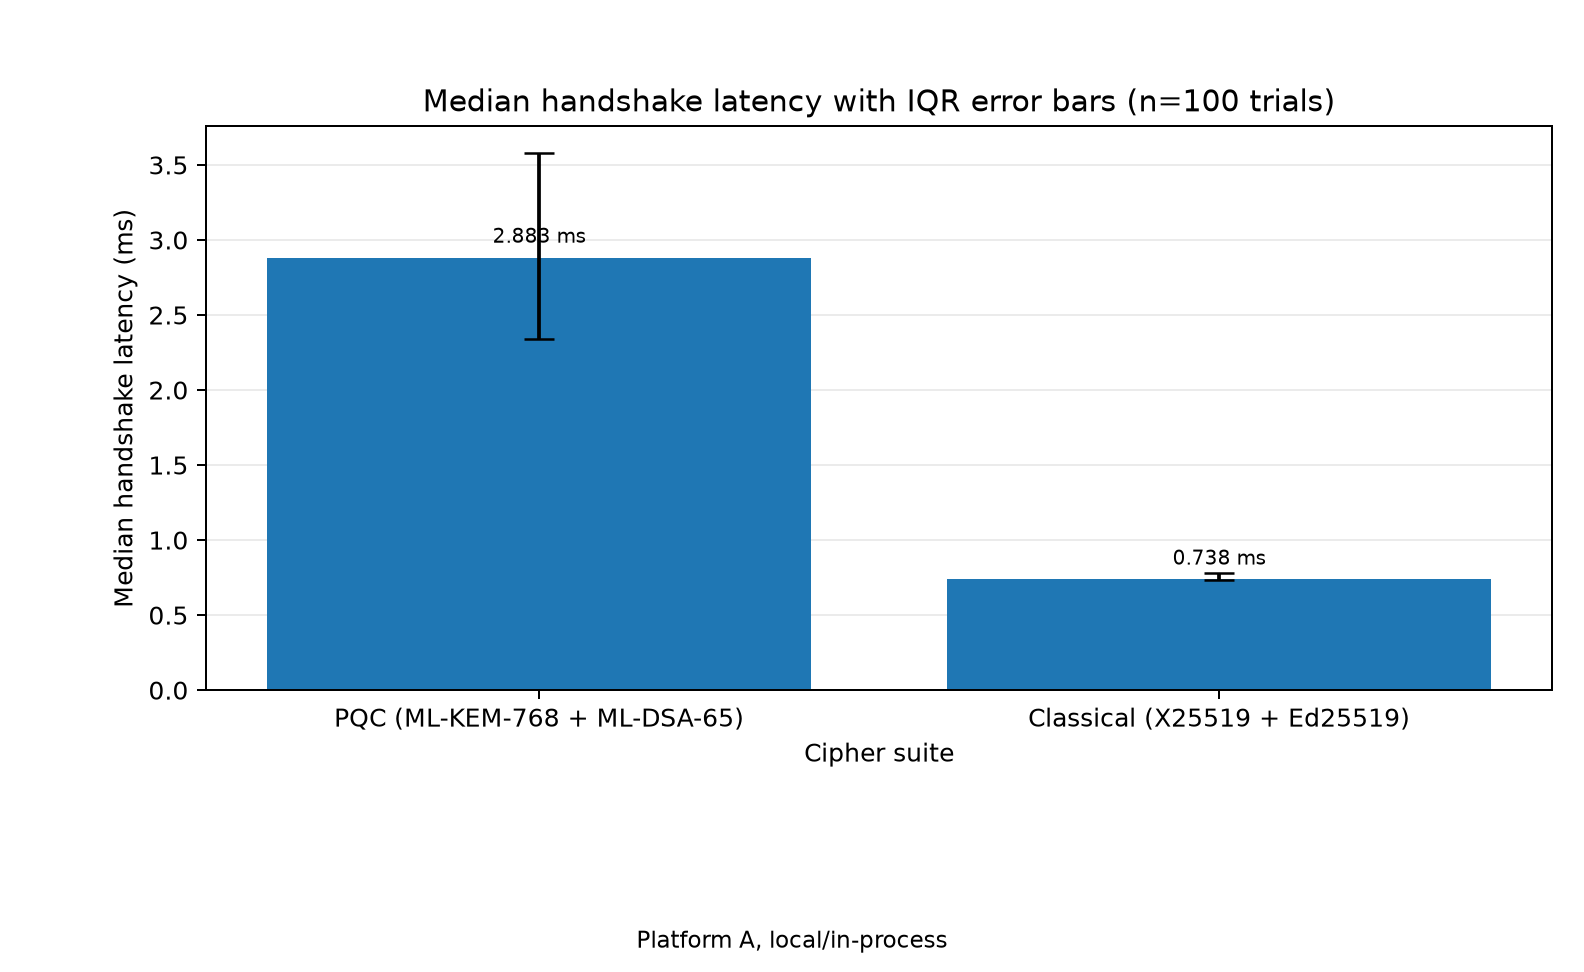
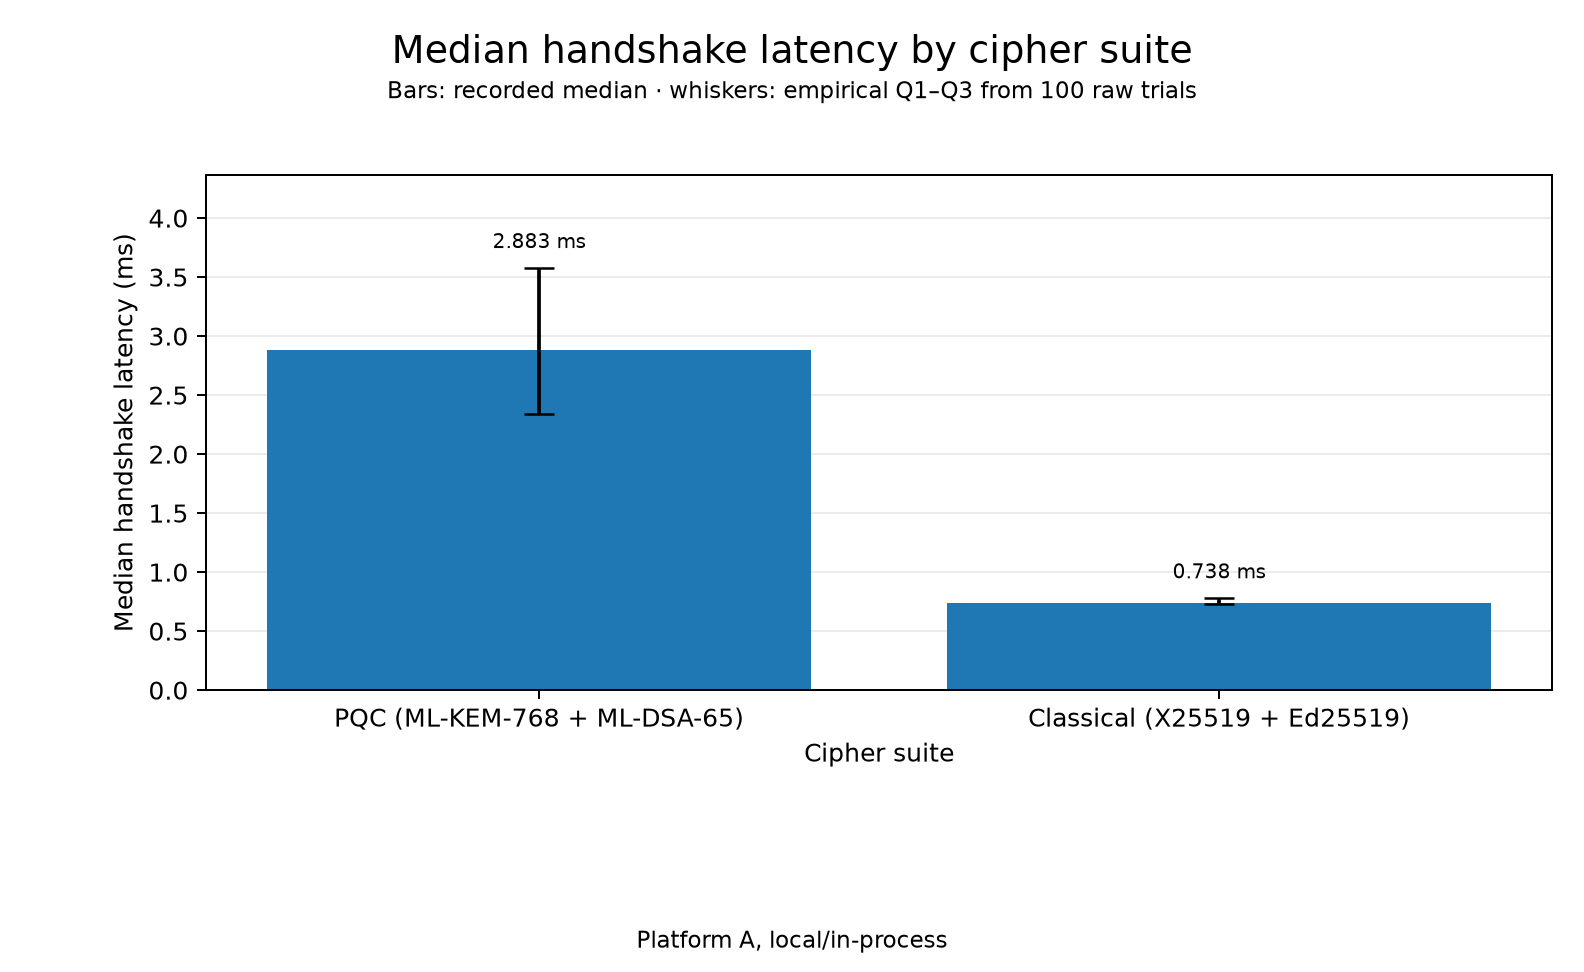
Polish PS-P1 submission documentation and figures

diff --git a/scripts/make_figures.py b/scripts/make_figures.py
@@ -38,17 +38,20 @@ def label_for(mode: str) -> str:
     return "PQC (ML-KEM-768 + ML-DSA-65)" if mode.lower() == "pqc" else "Classical (X25519 + Ed25519)"
 
 
-def annotate_values(ax, bars, fmt: str) -> None:
-    for bar in bars:
+def annotate_values(ax, bars, fmt: str, top_extensions: list[float] | None = None) -> None:
+    """Label bars; optional top_extensions move labels above error-bar caps."""
+    extensions = top_extensions or [0.0] * len(bars)
+    for bar, extension in zip(bars, extensions):
         height = bar.get_height()
         ax.annotate(
             fmt.format(height),
-            (bar.get_x() + bar.get_width() / 2, height),
-            xytext=(0, 4),
+            (bar.get_x() + bar.get_width() / 2, height + extension),
+            xytext=(0, 6),
             textcoords="offset points",
             ha="center",
             va="bottom",
             fontsize=8,
+            clip_on=False,
         )
 
 
@@ -95,8 +98,14 @@ def handshake_latency() -> None:
 
     fig, ax = plt.subplots(figsize=(8.8, 5.4))
     bars = ax.bar(labels, values, yerr=np.array([lower_err, upper_err]), capsize=6)
-    annotate_values(ax, bars, "{:.3f} ms")
-    ax.set_title("Median handshake latency with IQR error bars (n=100 trials)")
+    annotate_values(ax, bars, "{:.3f} ms", top_extensions=upper_err)
+    ax.set_ylim(0, max(v + e for v, e in zip(values, upper_err)) * 1.22)
+    fig.suptitle("Median handshake latency by cipher suite", y=0.965, fontsize=15)
+    fig.text(
+        0.5, 0.905,
+        "Bars: recorded median · whiskers: empirical Q1–Q3 from 100 raw trials",
+        ha="center", va="center", fontsize=9,
+    )
     ax.set_ylabel("Median handshake latency (ms)")
     ax.set_xlabel("Cipher suite")
     ax.grid(axis="y", alpha=0.25)
@@ -107,7 +116,7 @@ def handshake_latency() -> None:
             "Fallback: IQR width centered on median\n(raw per-trial samples not present yet)",
             transform=ax.transAxes, ha="right", va="top", fontsize=8,
         )
-    fig.subplots_adjust(left=0.13, right=0.98, bottom=0.29, top=0.87)
+    fig.subplots_adjust(left=0.13, right=0.98, bottom=0.29, top=0.82)
     set_platform_note(fig)
     FIGURES.mkdir(parents=True, exist_ok=True)
     fig.savefig(FIGURES / "handshake_latency.png", dpi=180)

diff --git a/common/env_check.py b/common/env_check.py
@@ -18,7 +18,7 @@ from pathlib import Path
 
 REPO_ROOT = Path(__file__).resolve().parent.parent
 REQUIRED_CRYPTOGRAPHY = "50.0.2"
-SUPPORTED_PYTHON = {(3, 10), (3, 11), (3, 12), (3, 13)}
+SUPPORTED_PYTHON = {(3, 11), (3, 12), (3, 13)}
 REQUIRED_ANALYSIS = ("psutil", "numpy", "pandas", "matplotlib")
 
 
@@ -30,10 +30,10 @@ def fail(msg: str, hint: str | None = None) -> None:
 
 
 def main() -> None:
-    # 1) Python version (kit: 3.10-3.13; analysis requirements use compatible minimums)
+    # 1) Python version (repository target: 3.11-3.13; 3.13 recommended)
     v = sys.version_info
     if (v.major, v.minor) not in SUPPORTED_PYTHON:
-        fail(f"Python {v.major}.{v.minor} not supported (need 3.10-3.13; kit recommends 3.13)")
+        fail(f"Python {v.major}.{v.minor} not supported (need 3.11-3.13; 3.13 recommended)")
 
     # 2) cryptography, exact kit pin
     try:

diff --git a/README.md b/README.md
@@ -1,4 +1,4 @@
-# QFF 2026 Track 5 — Team [TEAM NAME] | PS-P1 Quantum-Safe Secure Communication Channel
+# QFF 2026 Track 5 — SRM-Qiskit-FF-PS-P1 | PS-P1 Quantum-Safe Secure Communication Channel
 
 **Challenge:** Qiskit Fall Fest 2026 · Track 5 · **Problem Statement PS-P1**
 
@@ -6,14 +6,13 @@
 
 **Integration contract:** [docs/INTEGRATION_CONTRACT.md](docs/INTEGRATION_CONTRACT.md)
 
-## Team members
+## Team members and submission contact
 
-| Role | Name | Institution / contact |
+| Role | Name | Contact |
 |---|---|---|
-| Team lead | [Fill in] | [Fill in] |
-| Member 2 | [Fill in] | [Fill in] |
-| Member 3 | [Fill in] | [Fill in] |
-| Member 4 (if applicable) | [Fill in or remove row] | [Fill in or remove row] |
+| Primary repository contact | Vasisht Hire | This repository: [Devo982/SRM-Qiskit-FF-PS-P1](https://github.com/Devo982/SRM-Qiskit-FF-PS-P1) |
+
+The supplied repository snapshot did not identify the complete registered team roster. Add the actual names and contacts of all other registered members here before the final submission; no teammate names have been inferred or invented for this README.
 
 ## Summary
 
@@ -23,7 +22,7 @@ The T1–T9 fault-injection battery has 52 detailed checks across the two suites
 
 ## Setup
 
-Requirements: Python 3.10–3.13 (3.13 recommended) and pip. Analysis dependencies use minimum compatible versions so that Python 3.10 remains resolvable. `cryptography==50.0.2` is the organizer's exact pin and must not be changed.
+Requirements: Python 3.11–3.13 (3.13 recommended) and pip. Python 3.13.17 is the version exercised for the recorded Platform A run; Python 3.11 and 3.12 are supported targets but were not separately tested for this submission. `cryptography==50.0.2` is the organizer's exact pin and must not be changed.
 
 ```bash
 # 1. Clone the repository and enter it
@@ -79,7 +78,7 @@ Run metadata in `platform_A_info.json` was generated at `2026-10-29T21:13:19+00:
 | `pandas` | `>=2.0` | `3.1.0` |
 | `matplotlib` | `>=3.7` | `3.11.2` |
 
-The analysis-package minimums are intentionally not exact pins: PyPI declares NumPy 2.5.4 as Python >=3.12, and pandas 3.1.0 plus matplotlib 3.11.2 as Python >=3.11. The lower bounds above let pip select compatible releases for Python 3.10 while preserving `cryptography==50.0.2`. The existing Platform A environment used the versions shown in the last column.
+The analysis-package minimums are intentionally not exact pins: PyPI declares NumPy 2.5.4 as Python >=3.12, and pandas 3.1.0 plus matplotlib 3.11.2 as Python >=3.11. The lower bounds above let pip select compatible releases across the declared Python 3.11–3.13 range while preserving `cryptography==50.0.2`. The recorded Platform A environment used the versions shown in the last column; only Python 3.13.17 was exercised for this submission.
 
 ## Tests
 
@@ -93,7 +92,7 @@ The analysis-package minimums are intentionally not exact pins: PyPI declares Nu
 
 ## Verification
 
-Requested verification line: **`ALL TESTS PASSED: 52/52 checks`**. The current test runner's exact format includes the word `detailed` and elapsed time, e.g. `ALL TESTS PASSED: 52/52 detailed checks in <seconds>s`; test logic is unchanged.
+On the recorded local run, the runner printed **`ALL TESTS PASSED: 52/52 detailed checks in 0.56s`**. The duration is measured at runtime and will vary; the stable pass criterion is `ALL TESTS PASSED: 52/52 detailed checks`.
 
 ## Results
 
@@ -142,7 +141,7 @@ All current committed result files are linked below. Benchmark CSVs are the sour
 
 ## Intel-Mac note
 
-`cryptography==50.0.2` is the organizer's fixed pin. On Intel macOS (x86_64), consult [the Intel Mac environment helper](scripts/QFF2026_intel_mac_env_setup.sh) before installing if pip cannot use a compatible wheel; the helper prepares the static OpenSSL environment documented in the script. The installed origin is recorded honestly in `platform_A_info.json`. Stock macOS `/usr/bin/python3` can be Python 3.9, which is below this repo's Python 3.10 minimum; use a supported interpreter and activate `.venv` before running commands.
+`cryptography==50.0.2` is the organizer's fixed pin. On Intel macOS (x86_64), consult [the Intel Mac environment helper](scripts/QFF2026_intel_mac_env_setup.sh) before installing if pip cannot use a compatible wheel; the helper prepares the static OpenSSL environment documented in the script. The installed origin is recorded honestly in `platform_A_info.json`. Stock macOS `/usr/bin/python3` can be Python 3.9, which is below this repo's Python 3.11 minimum; use a supported interpreter and activate `.venv` before running commands.
 
 ## Repository layout
 

diff --git a/docs/TECHNICAL_REPORT.md b/docs/TECHNICAL_REPORT.md
@@ -4,8 +4,7 @@
 **Repo:** `Devo982/SRM-Qiskit-FF-PS-P1` · **Track:** 5 — Post-Quantum Cryptography
 **Platform of record:** Intel Mac (x86_64 native), macOS 15.8.2, CPython 3.13.17,
 `cryptography==50.0.2` (kit pin; see `platform_A_info.json` for the recorded
-install origin). **Supported Python:** 3.10–3.13 (3.13 recommended); analysis
-packages use kit-compatible minimum versions so Python 3.10 can resolve supported releases.
+install origin). **Supported Python:** 3.11–3.13 (3.13 recommended). The recorded Platform A run used CPython 3.13.17; Python 3.11 and 3.12 are declared targets but were not separately exercised for this submission.
 
 ---
 
@@ -569,8 +568,8 @@ independently audited. Explicit assumptions and limitations:
 
 ## 8. Reproduction guide
 
-Clean clone on Python 3.10–3.13 (3.13 recommended). The analysis dependencies
-use minimum compatible versions so that Python 3.10 resolves supported releases;
+Clean clone on Python 3.11–3.13 (3.13 recommended). The analysis dependencies
+use minimum compatible versions for the declared Python 3.11–3.13 range;
 `cryptography==50.0.2` remains the exact organizer pin.
 
 ```bash
